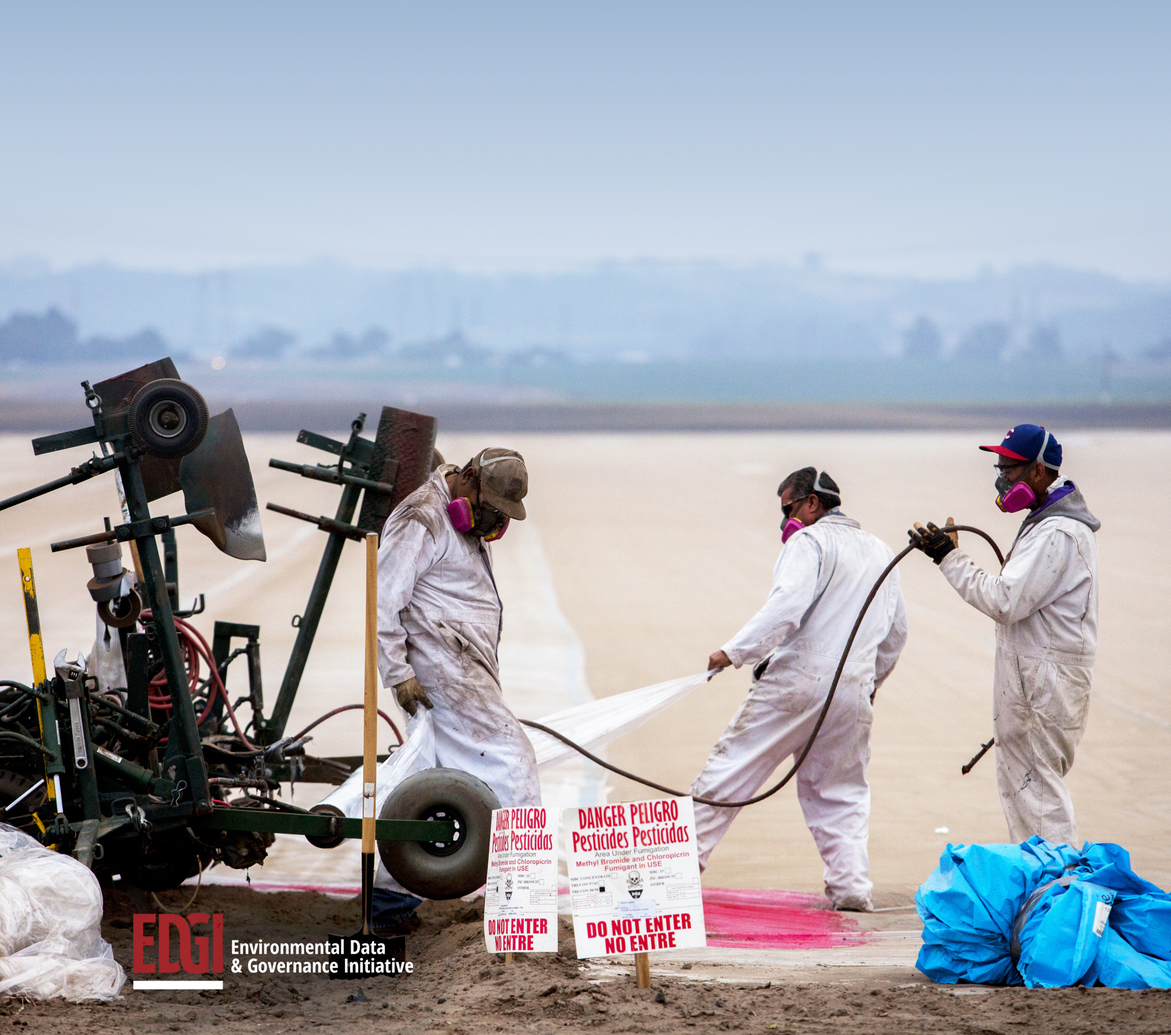
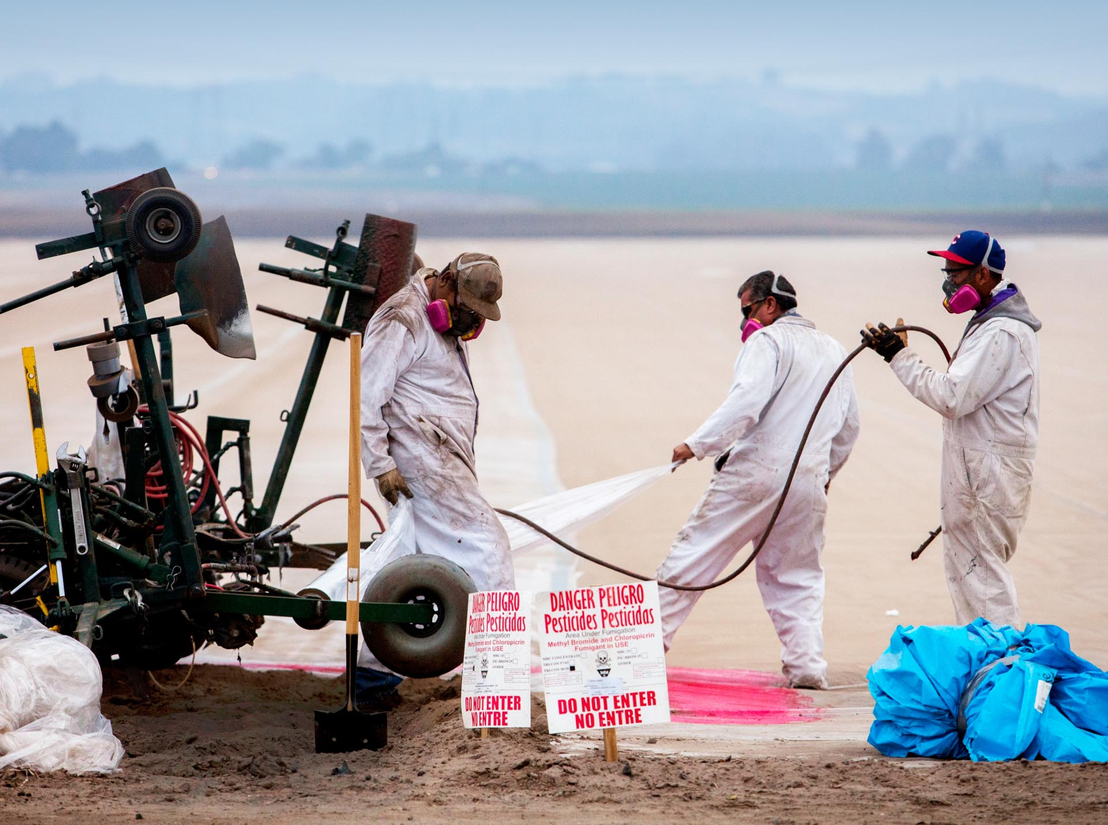
resize covers and rename to match existing filenames

diff --git a/epa-under-siege.html b/epa-under-siege.html
@@ -5,7 +5,7 @@ title: "The EPA Under Siege"
 subtitle: "The EPA Under Siege: Trump's Assault in History and Testimony"
 description:
 author: "Christopher Sellers, Lindsey Dillon, Jennifer Liss Ohayon, Nick Shapiro, Marianne Sullivan, Chris Amoss, Stephen Bocking, Phil Brown, Vanessa De la Rosa, Jill Harrison, Sara Johns, Katherine Kulik, Rebecca Lave, Michelle Murphy, Liza Piper, Lauren Richter, Sara Wylie"
-og-image: "ch1-cover.jpg"
+og-image: "part1-cover.jpg"
 permalink: /epa-under-siege/
 comments: true
 redirect_from:
@@ -27,7 +27,7 @@ redirect_from:
             </div>
         </div>
     </header>
-    
+
     <!--NAVIGATION TOP-->
     {% include nav.html %}
 

diff --git a/pursuing-toxic-agenda-peer-reviews.html b/pursuing-toxic-agenda-peer-reviews.html
@@ -4,7 +4,7 @@ section: "2"
 title: "Peer Reviews"
 subtitle: "Pursuing a Toxic Agenda: Environmental Injustice in the Early Trump Administration"
 author: "Dr. Jill Harrison, Dr. Ellen Kohl"
-og-image: "ch2-cover.jpg"
+og-image: "part2-cover.jpg"
 permalink: /pursuing-toxic-agenda-peer-reviews/
 redirect_from:
   - 'pursuing-toxic-agenda-peer-reviews.html'
@@ -23,7 +23,7 @@ redirect_from:
             <div><p id="contrib" class="f5-l f7-m f7-ns fw1 lh-copy">{{ page.author }}</p></div>
         </div>
     </header>
-    
+
     <!--NAVIGATION TOP-->
     {% include nav.html %}
 

diff --git a/epa-under-siege-peer-reviews.html b/epa-under-siege-peer-reviews.html
@@ -4,7 +4,7 @@ section: "1"
 title: "Peer Reviews"
 subtitle: "The EPA Under Siege: Trump's Assault in History and Testimony"
 author: "Dr. Richard Andrews, Dr. Nancy Langston, Dr. Jay Turner"
-og-image: "ch1-cover.jpg"
+og-image: "part1-cover.jpg"
 permalink: /epa-under-siege-peer-reviews/
 redirect_from:
   - '/epa-under-siege-peer-reviews.html'
@@ -23,7 +23,7 @@ redirect_from:
           <p id="contrib" class="f5-l f7-m f7-ns fw1 lh-copy">{{ page.author }}</p>
       </div>
     </header>
-    
+
     <!--NAVIGATION TOP-->
     {% include nav.html %}
 

diff --git a/pursuing-toxic-agenda.html b/pursuing-toxic-agenda.html
@@ -4,7 +4,7 @@ section: "2"
 title: "Pursuing a Toxic Agenda"
 subtitle: "Environmental Injustice in the Early Trump Administration"
 author: "Britt S. Paris, Lindsey Dillon, Jennifer Pierre, Irene V. Pasquetto, Emily Marquez, Sara Wylie, Michelle Murphy, Phil Brown, Rebecca Lave, Chris Sellers, Becky Mansfield, Leif Fredrickson, Nicholas Shapiro, EDGI"
-og-image: "ch2-cover.jpg"
+og-image: "part2-cover.jpg"
 permalink: /pursuing-toxic-agenda/
 comments: true
 redirect_from:

diff --git a/assets/post.css b/assets/post.css
@@ -193,7 +193,7 @@ header {
   margin: 0;
 }
 #bg1 {
-  background: url("/assets/ch1-cover.jpg");
+  background: url("/assets/part1-cover.jpg");
   background-position: bottom;
   background-size: cover;
   background-repeat: no-repeat;
@@ -437,7 +437,7 @@ figcaption.wide-fig {
 }
 
 #btm_throw_left_img {
-  background: url("/assets/ch1-cover.jpg");
+  background: url("/assets/part1-cover.jpg");
 }
 #btm_throw_right_img{
   background: url("/assets/ali.jpg");

diff --git a/pursuing-toxic-agenda-data.html b/pursuing-toxic-agenda-data.html
@@ -5,7 +5,7 @@ title: "Data Methods"
 subtitle: "Pursuing a Toxic Agenda: Environmental Injustice in the Early Trump Administration"
 description: "Notes on Data Used in Figures"
 author: "Britt S. Paris, Shaquilla Singh, Sara Wylie"
-og-image: "ch2-cover.jpg"
+og-image: "part2-cover.jpg"
 permalink: /pursuing-toxic-agenda-data/
 redirect_from:
     - '/pursuing-toxic-agenda-data.html'
